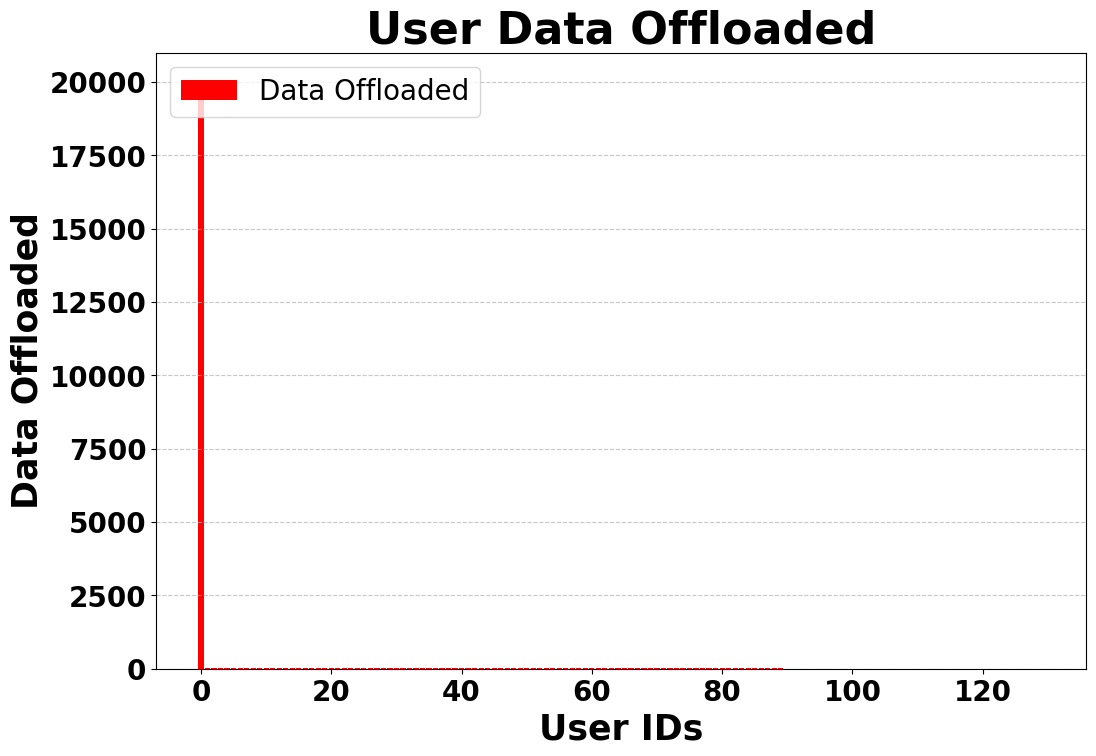
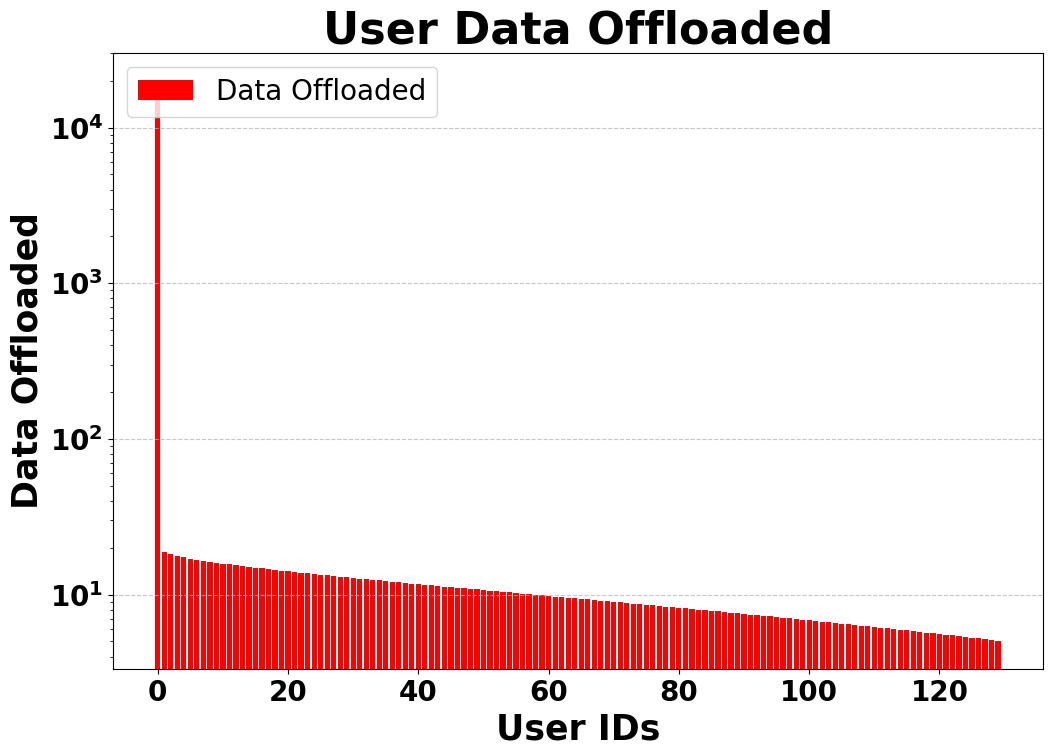
Testing

diff --git a/plot_graphs.py b/plot_graphs.py
@@ -392,6 +392,9 @@ def plot_graphs():
 	# Create the figure for user data offloaded
 	plt.figure(figsize=(12, 8))
 
+	# Apply log scale for better visualization
+	plt.yscale('log')
+
 	# Plot the data offloaded by each user
 	plt.bar(user_ids, user_data_offloaded, color='red', label='Data Offloaded')
 
@@ -634,6 +637,9 @@ def plot_graphs():
 
 	# Create the figure for user utility
 	plt.figure(figsize=(12, 8))
+
+	# Apply log scale for better visualization
+	plt.yscale('log')
 
 	# Plot the utility of each user
 	plt.bar(user_ids, user_utility, color='purple', label='Utility')

diff --git a/AoiUser.py b/AoiUser.py
@@ -500,7 +500,7 @@ class AoiUser:
 			
 			# Set the weight for the x/sum(other_strategies) term
 			w_s = 3
-			w_o = 0.000000000001
+			w_o = 0.00000000000000001
 			
 			#Clip total overhead to avoid numerical issues
 			#self.current_total_overhead = np.clip(self.current_total_overhead, 3, 50)

diff --git a/submodular_game_main.py b/submodular_game_main.py
@@ -36,8 +36,8 @@ DISTANCE_MAX = 5
 MAX_BITS = 20000
 MIN_BITS = 5000
 ENERGY_LEVEL = 4
-B = 0.5
-C = 0.5
+B = 1
+C = 0.005
 
 data_dict = {}
 
